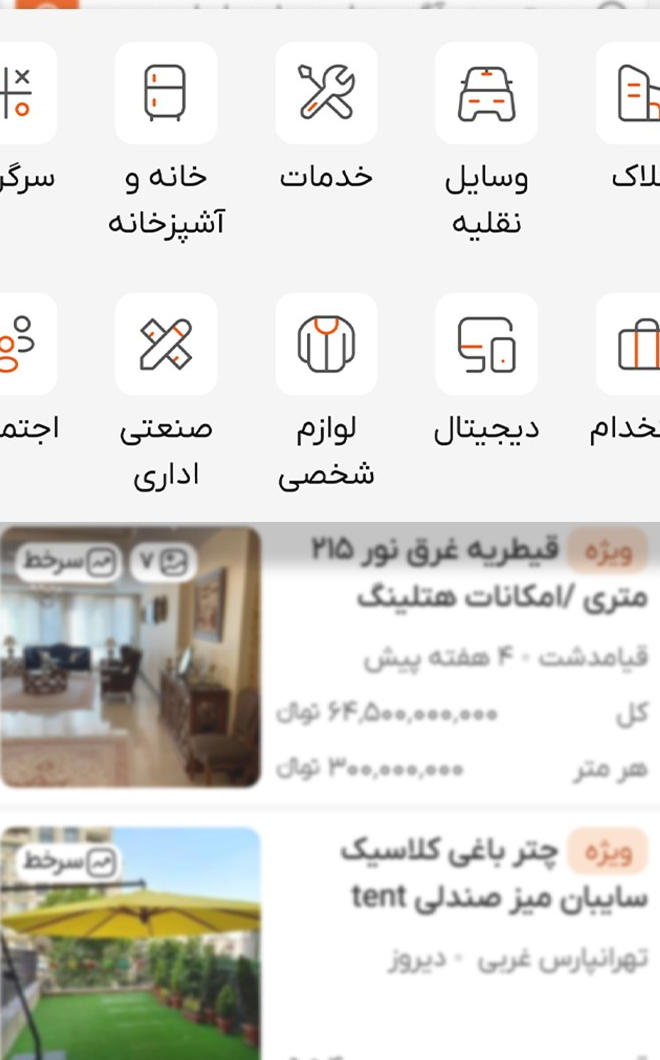
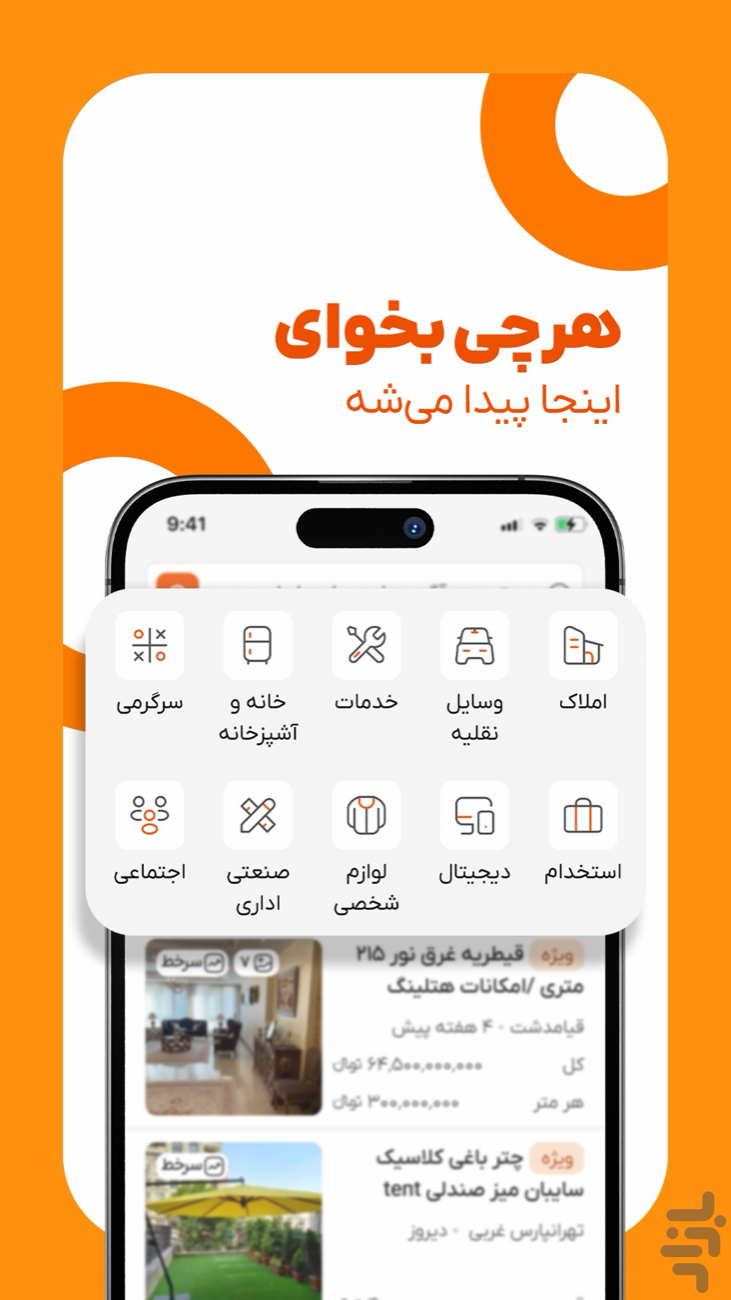
feat: show the branded store cards as posters and name each work once, in the block

diff --git a/test/components/WorkBlock.test.ts b/test/components/WorkBlock.test.ts
@@ -8,7 +8,7 @@ const corepass = {
   order: 1,
   kicker: 'Blockchain identity & wallet',
   word: ['CorePass'],
-  artifact: { kind: 'phone', image: corepassImage, alt: 'CorePass on an iPhone' },
+  artifact: { kind: 'poster', image: corepassImage, alt: 'The store card of the identity app' },
   receipts: [
     { label: 'App Store ↗', url: 'https://apps.apple.com/app/corepass-id/id1644928641' },
     {
@@ -28,10 +28,20 @@ describe('WorkBlock', () => {
     expect(html).toMatch(/rel="noopener/);
   });
 
-  it('should not link the work title in unit 1', async () => {
+  it('should name the work once, as the heading inside the block', async () => {
     const html = await render(WorkBlock, { work: corepass, index: 0 }, { default: 'desc' });
 
+    expect(html.match(/CorePass/g)?.length).toBe(1);
+    expect(html).toMatch(/<h3[^>]*>[\s\S]*CorePass[\s\S]*<\/h3>/);
     expect(html).not.toMatch(/<a[^>]*>\s*CorePass\s*<\/a>/);
+  });
+
+  it('should render a poster artifact as a plain image, with no phone chrome', async () => {
+    const html = await render(WorkBlock, { work: corepass, index: 0 }, { default: 'desc' });
+
+    expect(html).toMatch(/class="[^"]*poster[^"]*"/);
+    expect(html).not.toMatch(/class="[^"]*phone[^"]*"/);
+    expect(html).toContain('alt="The store card of the identity app"');
   });
 
   it('should zero-pad the index', async () => {

diff --git a/src/styles/global.css b/src/styles/global.css
@@ -75,15 +75,6 @@ img {
   text-underline-offset: 3px;
 }
 
-.sign-spark::after {
-  content: '✦';
-  position: absolute;
-  top: var(--space-4);
-  right: var(--space-4);
-  color: var(--color-block-gold);
-  font-size: var(--text-kicker);
-}
-
 .sign-dot::before {
   content: '';
   display: inline-block;

diff --git a/src/content/works/corepass.md b/src/content/works/corepass.md
@@ -4,9 +4,9 @@ order: 1
 kicker: Blockchain identity & wallet · live on both stores
 word: [CorePass]
 artifact:
-  kind: phone
+  kind: poster
   image: ../../assets/works/corepass.png
-  alt: The CorePass log-in screen with a QR code, cropped from the App Store listing
+  alt: 'CorePass App Store card: no forms, no usernames, no passwords for website login, with the QR log-in screen'
 receipts:
   - label: App Store ↗
     url: https://apps.apple.com/app/corepass-id/id1644928641

diff --git a/src/content/works/ring.md b/src/content/works/ring.md
@@ -4,9 +4,9 @@ order: 2
 kicker: Classifieds marketplace · Mobile Engineer, 2026 –
 word: [Ring]
 artifact:
-  kind: phone
+  kind: poster
   image: ../../assets/works/ring.png
-  alt: The Ring home screen with its category grid, cropped from the Cafe Bazaar listing
+  alt: 'Ring Cafe Bazaar card: whatever you want, you find it here, with the home screen and its category grid'
 receipts:
   - label: Cafe Bazaar ↗
     url: https://cafebazaar.ir/app/com.ads.ring
